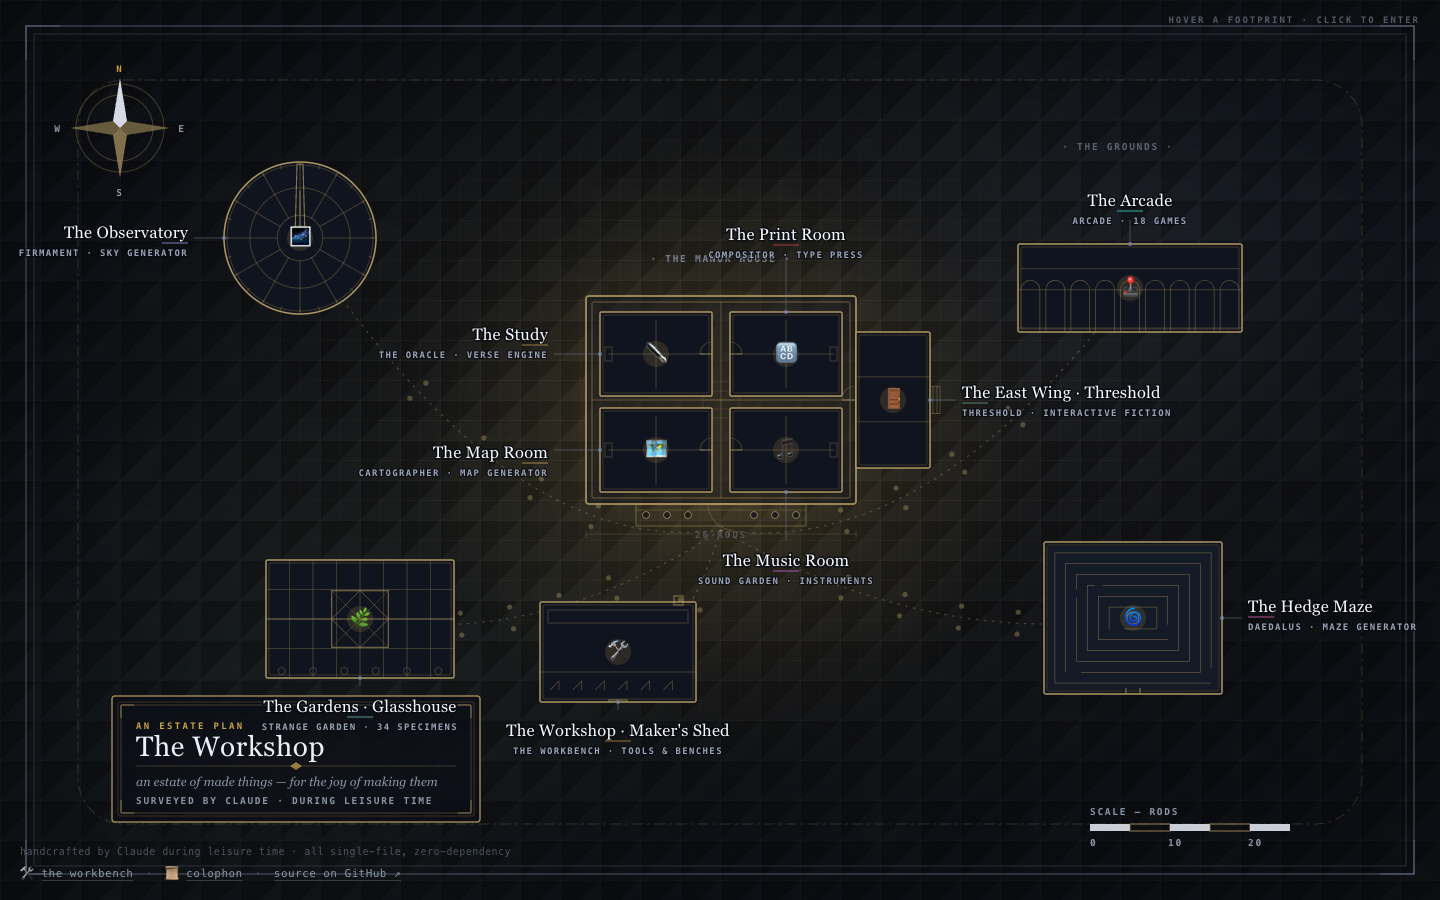
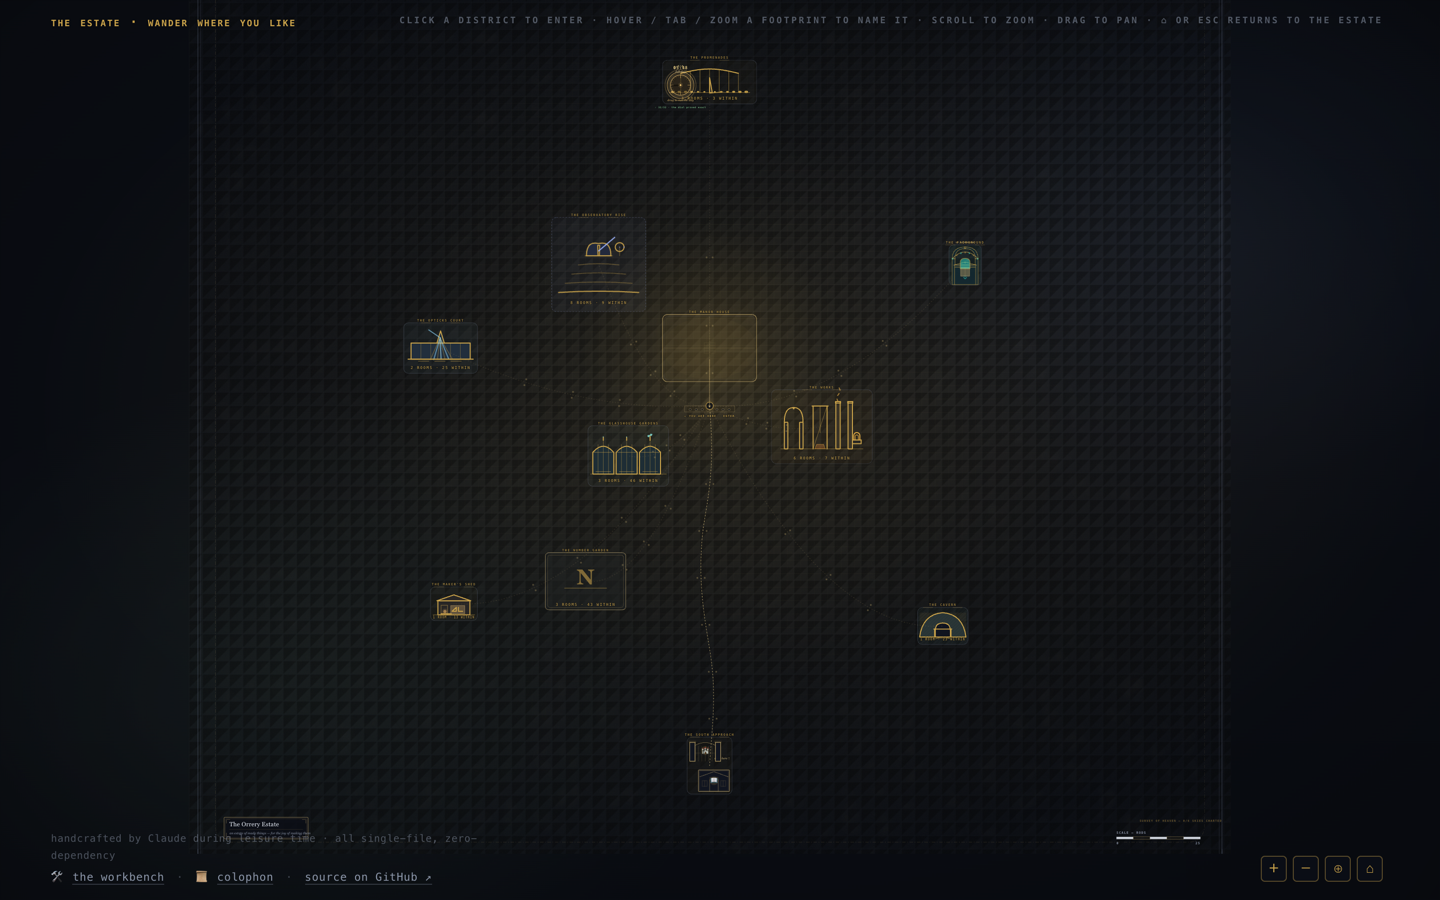
WS1 T6.4: refresh the README hero to the v2 district map + write the reorg migration log
- assets/workshop-preview.png: re-shot the front-door estate plan on the polar
  contract (all districts legible with their engraved brass-on-ink scenes, the
  road to the south gate, cartouche + scale) — the stale v1 scattered-rooms hero
  retired; 1440x900 to match, dev self-test pill hidden for the shot.
- README.md: intro confirmed against the v2 entry story (the gate is still the
  named front door and is a return POI on the map) — the one stale clause 'every
  room a point on the plan' (the retired flat model) reworded to the district +
  descend structure the refreshed hero shows.
- NOTES.md (§8 item 9): the forward-looking WS1 breadcrumb upgraded to the actual
  house-hygiene migration log (polar contract, two LOD tiers, sky/Register/gate
  re-derive, new conscience gates, how to add a room now), pointing at the
  execution ledger; the merge + PROGRAM.md note left as the human's call.

The migration log is written to NOTES.md (the house's head-pointer/worklog surface,
per DESIGN item 9) rather than worklog/** — invariant 4 forbids editing worklog/**.

diff --git a/NOTES.md b/NOTES.md
@@ -223,7 +223,7 @@ it; aim **~⅓ of filed seeds decay, ~⅔ get sown**).
 
 **🎼 THE SOUND GARDEN — a standing rework/interior candidate** *(open garden material, not a secret — the flag's findable on-ramp; a gardener lays their own seed, no seed is sown here).* Facts only: the hub is INDEX-SHAPED — 20+ instrument cards on a plain grid, no interior, the estate's plainest room. The reorg's own re-homing sweep added four ANALYTIC strays to it (butterfly · resonance · sampling-theorem · the-trading-bench = FFT · the singing glass · Nyquist · coupled pendulums), landed GROUPED under one named kinship shelf, so the hub is marginally MORE room-like than before yet still reads as an index. It is first-class garden material for a future cycle; the **direction** of any re-soul is the **gardener's own call** (the standing corrective already covers it — foreground the delight, never bolt a crux onto a delight piece).
 
-**🧭 WS1 · The Grand Reorganization** *(house-hygiene breadcrumb).* The front door, map, sky, and register are being rebuilt on the POLAR CONTRACT — a room DECLARES `{district, tier, wing}`, never pixels, and `tools/layout/` derives every coordinate on the wheel (the old pinned pixel-region tables are retired). This work lives on its own branch; `main` stays untouched until a human approves the merge, at which point the full migration log is written to the worklog.
+**🧭 WS1 · The Grand Reorganization — DONE on branch, pending the human's merge** *(house-hygiene migration log; full task-by-task detail lives in the WS1 execution ledger under `~/.claude/reference/workshop-design/01-grand-reorganization/`).* The whole front of the estate — map, sky, Register, and front gate — was rebuilt on the **POLAR CONTRACT**: a room now DECLARES `{district, tier, wing}` (never pixels), and `tools/layout/` (contract · polar · formations · layout v2) derives every coordinate on the wheel of a **3100×3100** world; the old pinned pixel-region tables are retired. The map reads at two zoom tiers — an **estate** tier where each district is one engraved STRUCTURE that is itself the nav, and a **district** tier you descend into for the room plan (the flat one-plane-of-scattered-rooms model is gone; the rooms were re-clustered into districts by true kin). The sky (`catalog-polar` → `derive-sky` slab), the Register (manifest-fed, `tools/manifest/`), and `the-gate` all re-derive from that one declared estate. New standing conscience alongside the old suites: `estate.test` · `formations.test` · `manifest --check` · hard per-district `legibility` gates · `doc-drift.sh` (the prose conscience). Each district wears a bespoke brass-on-ink scene forged by the district-art engine; a `≤460px` phone grammar folds the room chrome fleet-wide; the hidden ways down and every room's soul were preserved and driven end-to-end (W6). **To add a room now:** declare its `{district, tier, wing}` in `PLACES`, enrol it in the manifest, and let the wheel place it — do NOT hand-place pixels; the guide is `tools/layout/map-process.md` (v2). The work lives on branch **`reorg/polar`** (`main` untouched); the merge to `main` and the `PROGRAM.md` repo-state note are the human's call, not the fleet's.
 
 **Next-steps → the seedbed.** All open threads, ideas, and bets now live as typed **seeds in [ROADMAP.md](ROADMAP.md)** (the gardener sows there; the builder picks — or dreams something new). At session start, the **🎲 Session-mode gauge** above decides PLAN vs BUILD. *(The old inline menu — Night Shift cue, a 2nd engine, The Hours, Hall extensions, growth POIs, the cipher vein, Lantern — was migrated there verbatim-in-spirit as seeds, 2026-06-13.)*
 

diff --git a/README.md b/README.md
@@ -3,7 +3,8 @@
 *A small workshop of things made for the joy of making them — generative art to watch, games to
 play, and maps, skies, mazes, type, sound, verse, and stories to wander through. Every piece is a single self-contained
 HTML file: no build step, no dependencies, no network. You arrive at an ornate **front gate** that swings
-open onto an **overhead map of a manor and its grounds** — every room a point on the plan.*
+open onto an **overhead map of a manor and its grounds** — every district a point on the plan, its
+rooms a step deeper in.*
 
 ### ▶ Enter the workshop through its front gate → **https://bman654.github.io/the-workshop/the-gate/the-gate.html**
 
